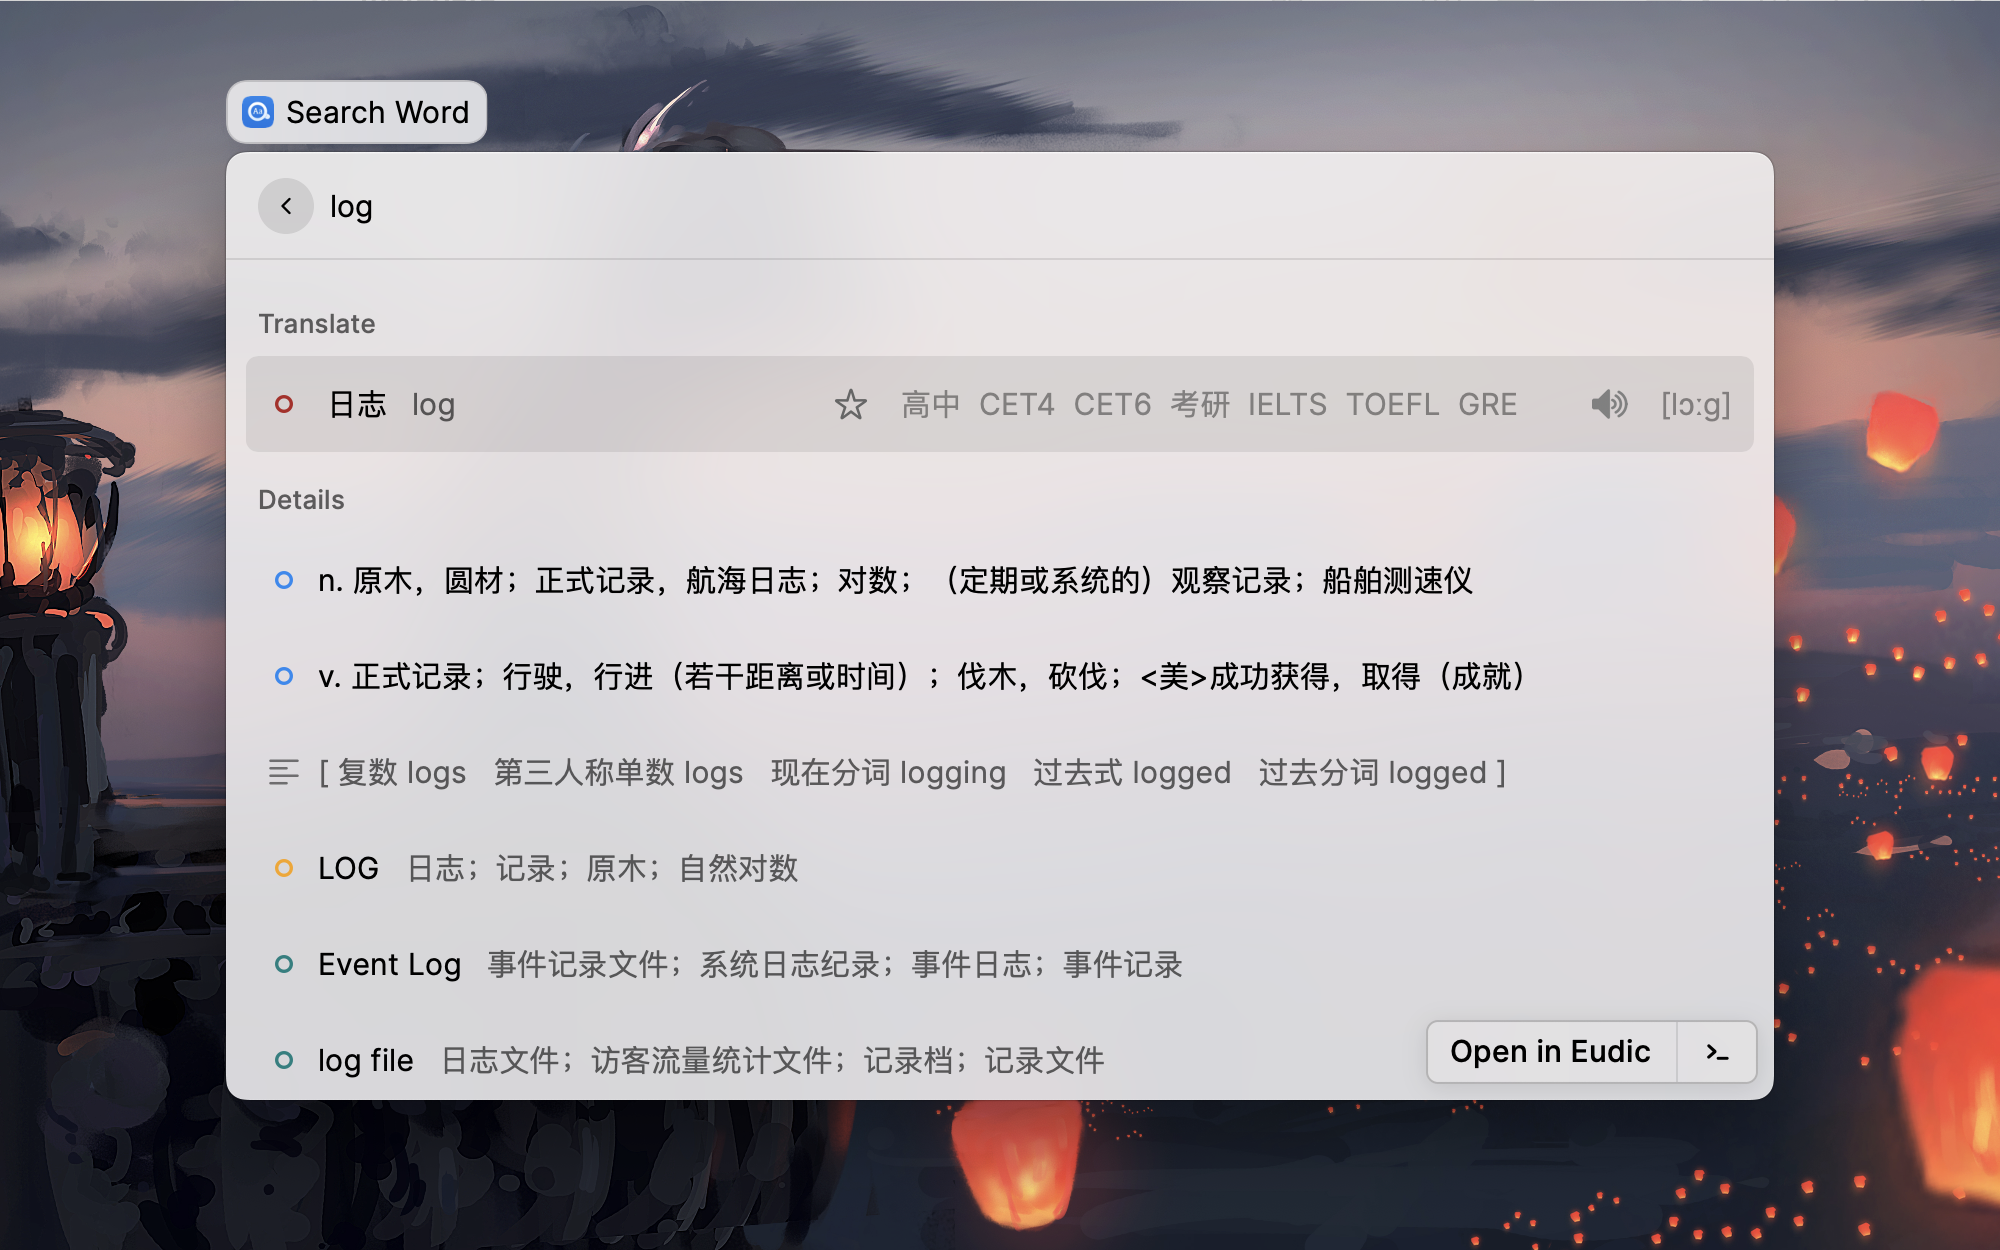
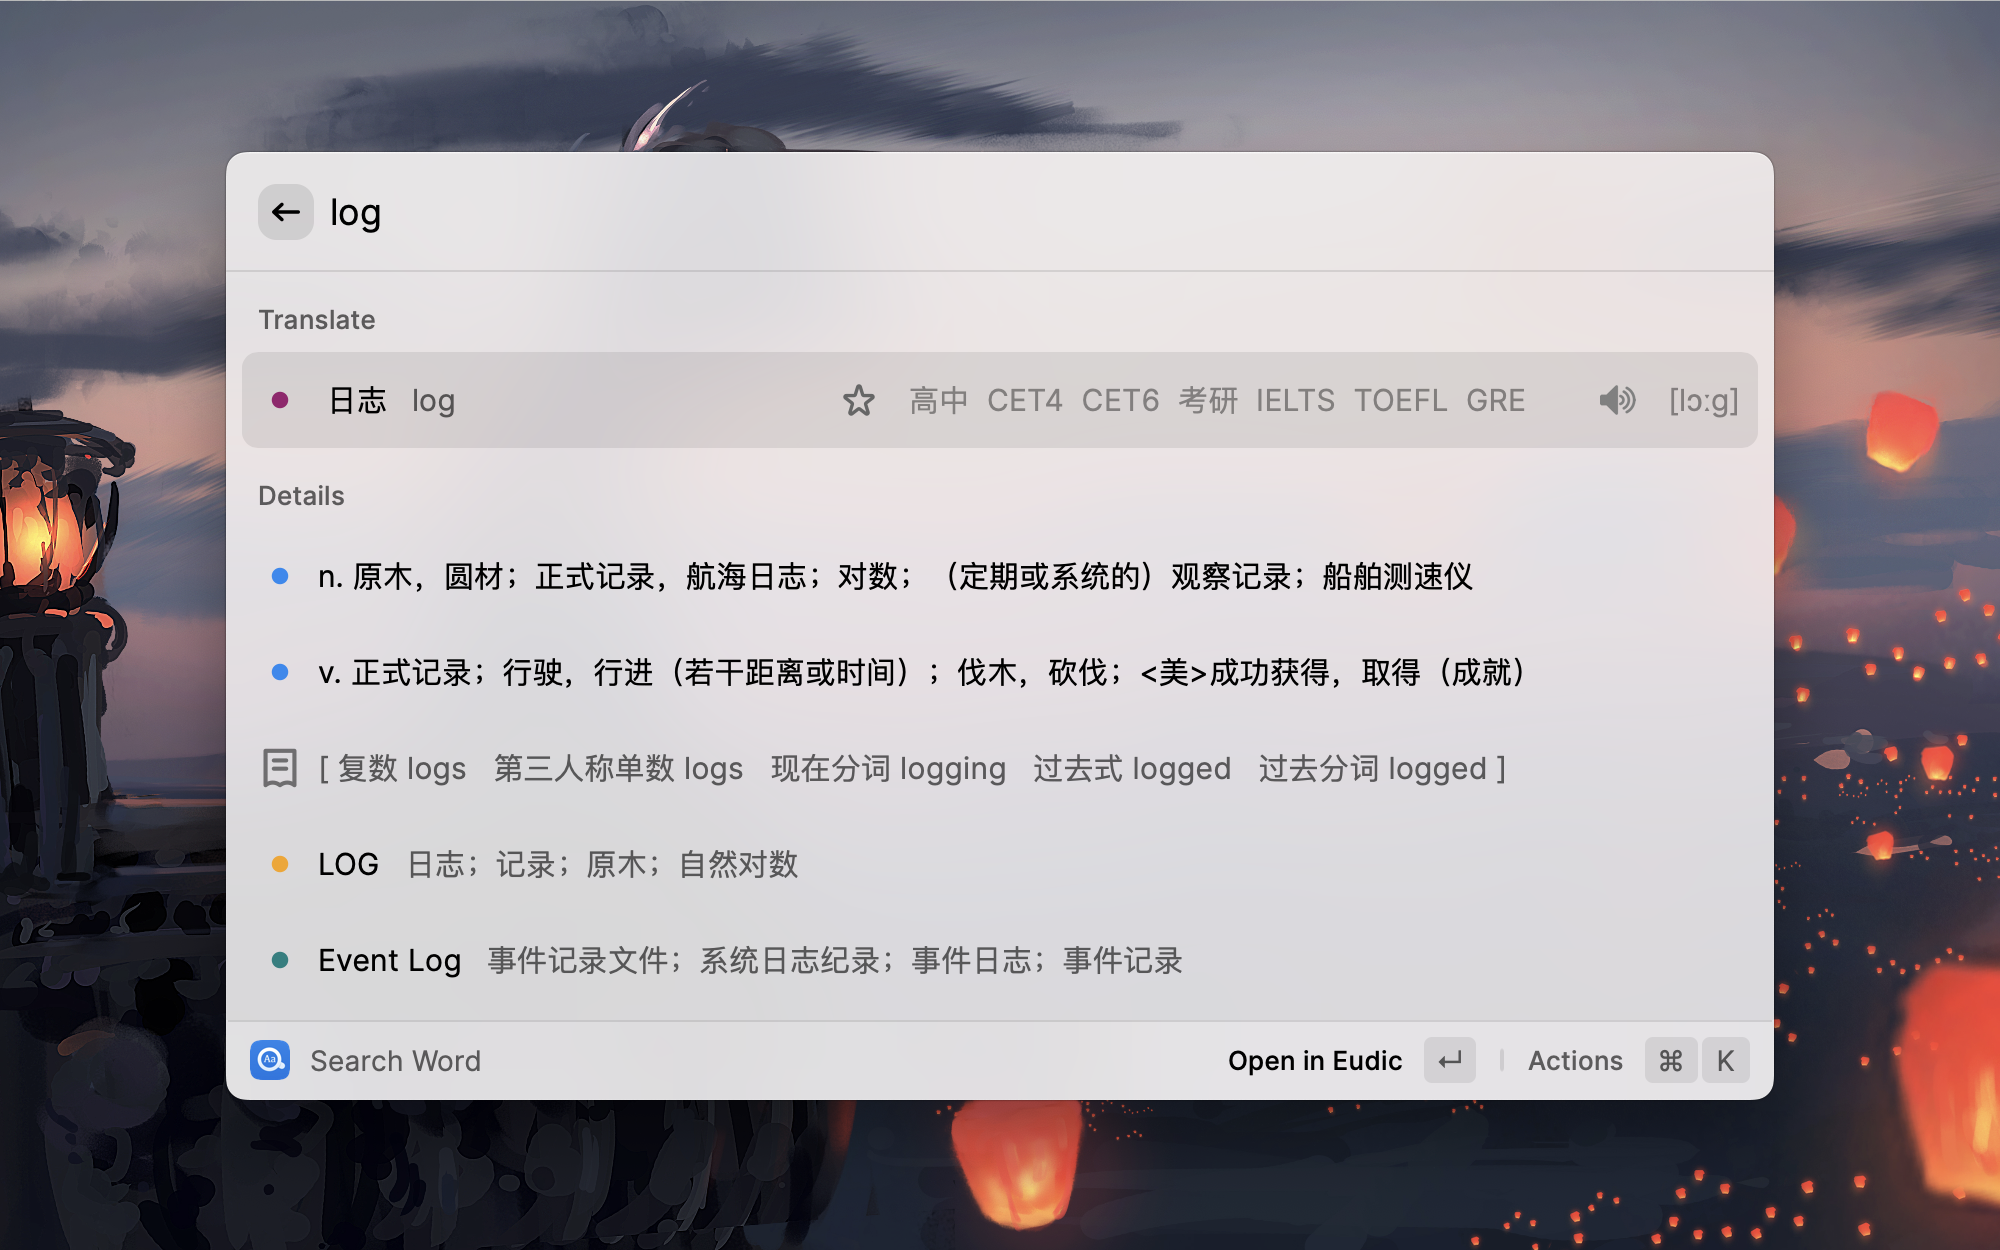
docs: update README and changelog

diff --git a/src/releaseVersion/changelog.ts b/src/releaseVersion/changelog.ts
@@ -2,25 +2,30 @@
  * @author: tisfeng
  * @createTime: 2022-07-03 22:10
  * @lastEditor: tisfeng
- * @lastEditTime: 2022-07-16 23:24
+ * @lastEditTime: 2022-07-20 21:17
  * @fileName: changelog.ts
  *
  * Copyright (c) 2022 by tisfeng, All Rights Reserved.
  */
 
 export const changelog = `
-## [1.3.0] - 2022-07-16
+## [1.3.0] - 2022-07-20
 
 ### ✨ 新特性
 
 - 支持 DeepL 翻译。
 - 支持手动排序翻译结果显示。
 
-![easydict-5](https://raw.githubusercontent.com/tisfeng/ImageBed/c393f8bbb9e4a332e0058854494a08bd1e1bdc08/uPic/easydict-5.png)
+![easydict-5](https://raw.githubusercontent.com/tisfeng/ImageBed/main/uPic/easydict-5-1658309785.png)
+
+### 💎 Improvements
+
+- 使用了一些新的 icon 去适配 raycast 新 API。
 
 ### 🐞 Fixes
 
-- 修复删除输入框文本会导致重复查询选中文本问题。
+- 修复了删除输入框文本会导致重复查询选中文本问题。
+- 修复了动作按钮渲染时会闪烁显示 “✨ New Version Released” 问题。
 
 ### ✅ 最近更新
 
@@ -35,9 +40,14 @@ export const changelog = `
 - Added support for DeepL translation.
 - Supported to sort translation results manually.
 
+### 💎 Improvements
+
+- Used the new icons to adapted to the new raycast API.
+
 ### 🐞 Fixes
 
 - Fixed deleting input box text will cause repeated query selected text problem.
+- Fixed the bug of "✨ New Version Released" flashing when rendering action button.
 
 ### ✅ Recent Updates
 

diff --git a/src/releaseVersion/releaseDetail.tsx b/src/releaseVersion/releaseDetail.tsx
@@ -2,7 +2,7 @@
  * @author: tisfeng
  * @createTime: 2022-07-01 21:54
  * @lastEditor: tisfeng
- * @lastEditTime: 2022-07-20 16:15
+ * @lastEditTime: 2022-07-20 20:50
  * @fileName: releaseDetail.tsx
  *
  * Copyright (c) 2022 by tisfeng, All Rights Reserved.
@@ -32,7 +32,7 @@ export function ReleaseDetail(props: { fallbackMarkdown?: string }) {
       markdown={releaseMarkdown || props.fallbackMarkdown}
       actions={
         <ActionPanel>
-          <Action.OpenInBrowser icon={Icon.Link} title="View Details on GitHub" url={easydict.getChineseWikiUrl()} />
+          <Action.OpenInBrowser icon={Icon.Eye} title="View Details on GitHub" url={easydict.getChineseWikiUrl()} />
         </ActionPanel>
       }
     />

diff --git a/README.md b/README.md
@@ -15,7 +15,7 @@
 
 `Easydict` is an easy dictionary, for looking up words or translating text in an easy way. Use it out of the box, automatically detect the input text language, support Youdao dictionary, **MacOS system translate**, DeepL, Baidu, Tencent, Youdao and Caiyun translation API.
 
-![easydict-1](https://i.imgur.com/YYlIqTS.jpg)
+![easydict-1](https://raw.githubusercontent.com/tisfeng/ImageBed/main/uPic/easydict-1-1658309667-1658309686.png)
 
 ## Features
 
@@ -24,11 +24,11 @@
 - [x] Provide word rich query information, including basic translation, pronunciation, the types of exams that include the word, multiple parts of speech and explanations, forms and tenses, web translations and web phrases.
 - [x] Support automatic query selected text, enabled by default.
 - [x] Support to open the [Eudic Application](https://www.eudic.net/v4/en/app/eudic) and quickly look up words, if installed on your Mac.
-- [x] Quick search query text online, supports Eudic, Youdao dictionary and Google translation. Use `Cmd + K` to view the action list.
+- [x] Quick search query text online, supports Eudic, Youdao dictionary and Google translation.
 - [x] Support automatic playback of word pronunciation, which can be turned on in Settings. Use `Cmd + S` to play the pronunciation of words manually.
 - [x] Support Youdao Text to Speech(TTS).
 - [x] Support to sort translation results manually.
-- [x] Support **MacOS system translation**. (_Note: please see [How to use macOS 🍎 system translation in Easydict?](https://github.com/tisfeng/Raycast-Easydict/wiki/How-to-use--macOS-%F0%9F%8D%8E-system-translation-in-Easydict%3F)_)
+- [x] Support **MacOS system translation**. (_Please see [How to use macOS 🍎 system translation in Easydict?](https://github.com/tisfeng/Raycast-Easydict/wiki/How-to-use--macOS-%F0%9F%8D%8E-system-translation-in-Easydict%3F)_)
 - [x] Support DeepL, Baidu, Tencent, Youdao and Caiyun translation API.
 - [x] Support 23 languages.
 
@@ -40,13 +40,13 @@ Next:
 
 **_If you like this extension, please give a [Star](https://github.com/tisfeng/Raycast-Easydict) ⭐, thanks!_**
 
-![easydict-2](https://i.imgur.com/L9aE9ke.jpg)
+![easydict-2](https://raw.githubusercontent.com/tisfeng/ImageBed/main/uPic/easydict-2-1658309750.png)
 
-![easydict-3](https://raw.githubusercontent.com/tisfeng/ImageBed/c93edb20a2655ba2b1d29c475bdf39ca8e4cfd13/uPic/easydict-3.png)
+![easydict-3](https://raw.githubusercontent.com/tisfeng/ImageBed/main/uPic/easydict-3-1658309767.png)
 
-![easydict-4](https://raw.githubusercontent.com/tisfeng/ImageBed/c393f8bbb9e4a332e0058854494a08bd1e1bdc08/uPic/easydict-4.png)
+![easydict-4](https://raw.githubusercontent.com/tisfeng/ImageBed/main/uPic/easydict-4-1658309776.png)
 
-![easydict-5](https://raw.githubusercontent.com/tisfeng/ImageBed/c393f8bbb9e4a332e0058854494a08bd1e1bdc08/uPic/easydict-5.png)
+![easydict-5](https://raw.githubusercontent.com/tisfeng/ImageBed/main/uPic/easydict-5-1658309785.png)
 
 ---
 
@@ -58,7 +58,7 @@ Actually, it works well without you having to do any extra work. The next are ad
 
 ### Supported Languages
 
-Currently we support 23 languages: Chinese-Simplified, Chinese-Traditional, English, Japanese, Korean, French, Spanish, Portuguese, Italian, German, Russian, Arabic, Swedish, Romanian, Thai, Slovak, Dutch, Hungarian, Greek, Danish, Finnish, Polish, Czech.
+Currently we support 23 languages: Simplified Chinese, Traditional Chinese, English, Japanese, Korean, French, Spanish, Portuguese, Italian, German, Russian, Arabic, Swedish, Romanian, Thai, Slovak, Dutch, Hungarian, Greek, Danish, Finnish, Polish, Czech.
 
 Details of the languages supported by each translation service are as follows:
 
@@ -120,7 +120,7 @@ For example, if you input a sentence arbitrarily, it will be translated into the
 
 ![image-20220531223631425](https://cdn.jsdelivr.net/gh/tisfeng/ImageBed@main/uPic/image-20220531223631425.png)
 
-![heel](https://i.imgur.com/4LhEKrf.jpg)
+![heel](https://raw.githubusercontent.com/tisfeng/ImageBed/main/uPic/heel-1658321695.png)
 
 ### Automatic Query Selected Text
 
@@ -150,7 +150,7 @@ Play audio content: English words are preferred to be pronounced in an online yo
 
 Use `Cmd + S` to play the pronunciation of words manually.
 
-![](https://raw.githubusercontent.com/tisfeng/ImageBed/main/uPic/log_action%E7%9A%84%E5%89%AF%E6%9C%AC-20220710180938330.png)
+![beauty](https://raw.githubusercontent.com/tisfeng/ImageBed/main/uPic/beauty-1658321887.png)
 
 ### Select Target Translation Language
 

diff --git a/CHANGELOG.md b/CHANGELOG.md
@@ -7,6 +7,10 @@
 - Added support for DeepL translation.
 - Supported to sort translation results manually.
 
+### 💎 Improvements
+
+- Used the new icons to adapted to the new `raycast` API.
+
 ### 🐞 Fixes
 
 - Fixed deleting input box text will cause repeated query selected text problem.
